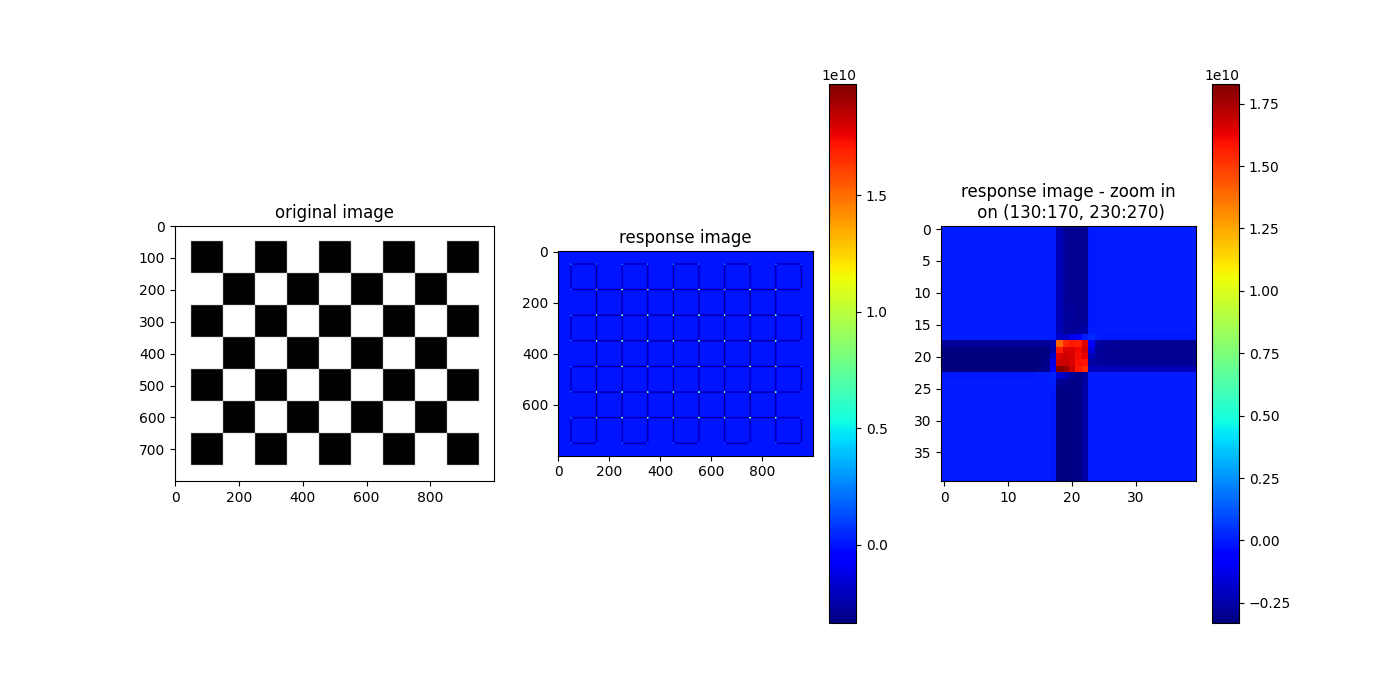
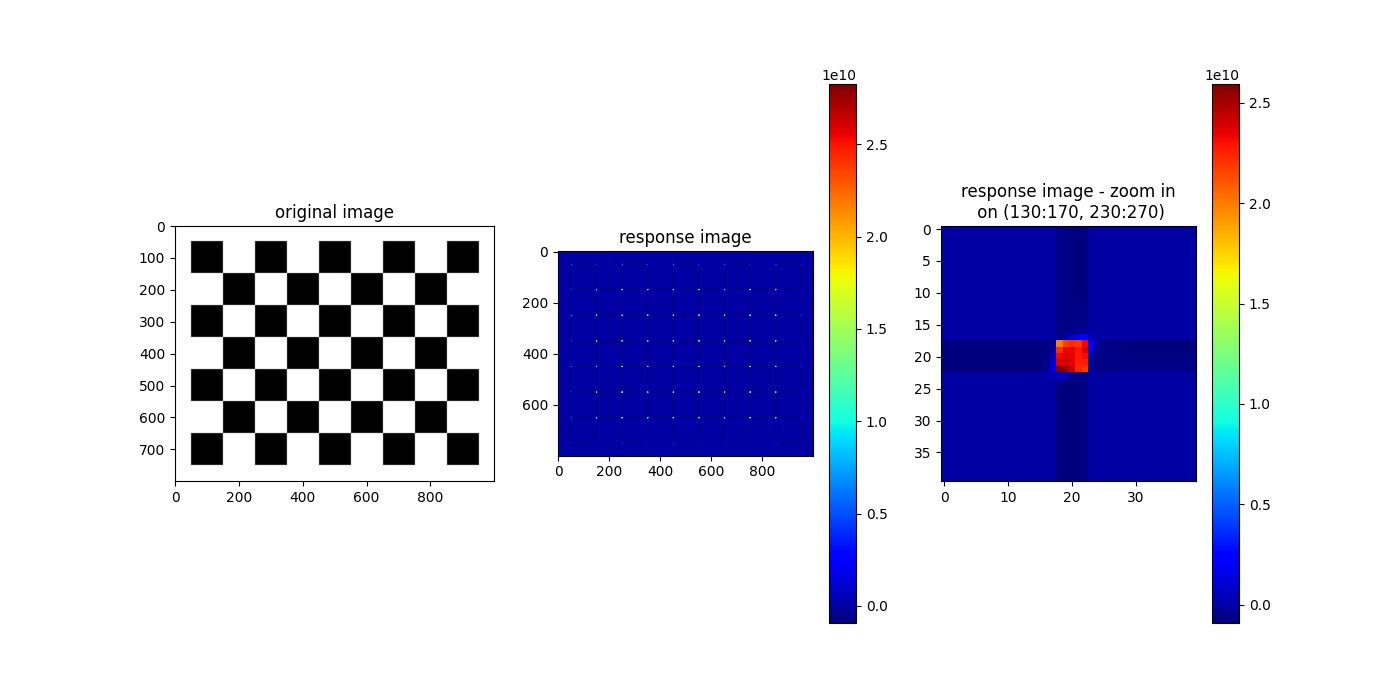
updated the code

diff --git a/harris_corner_detector.py b/harris_corner_detector.py
@@ -12,9 +12,9 @@ ID1 = '203200480'
 ID2 = '320521461'
 
 # Harris corner detector parameters - you may change them.
-K = 0.09
+K = 0.025
 CHECKERBOARD_THRESHOLD = 3e7
-GIRAFFE_THRESHOLD = 5e7
+GIRAFFE_THRESHOLD = 5.5e7
 BUTTERFLY_IMAGE = 'butterfly.jpg'
 
 # Do not change the following constants:
@@ -272,16 +272,18 @@ def our_harris_corner_detector(input_image: np.ndarray, K: float,
     count1 = len(idx) 
     while (i<len(idx)-1):
         delta = np.sqrt(np.abs(idx[i][0]- idx[i+1][0])^2+ np.abs(idx[i][1]- idx[i+1][1])^2)
-        if delta <=10.1:
+        if delta <=11:
             temp =idx[i] 
-            output_image[idx[i][0],idx[i][1]] = 0
+            if response_image[idx[i][0],idx[i][1]]<=response_image[idx[i+1][0],idx[i+1][1]]: 
+                output_image[idx[i][0],idx[i][1]] = 0
+            else:
+               output_image[idx[i+1][0],idx[i+1][1]] = 0 
             i+=2
         else:
             i+=1
     
     idx = np.nonzero(output_image)
     idx=list( zip(idx[0],idx[1]))
-    i=0
     count2 = len(idx)
 
 
